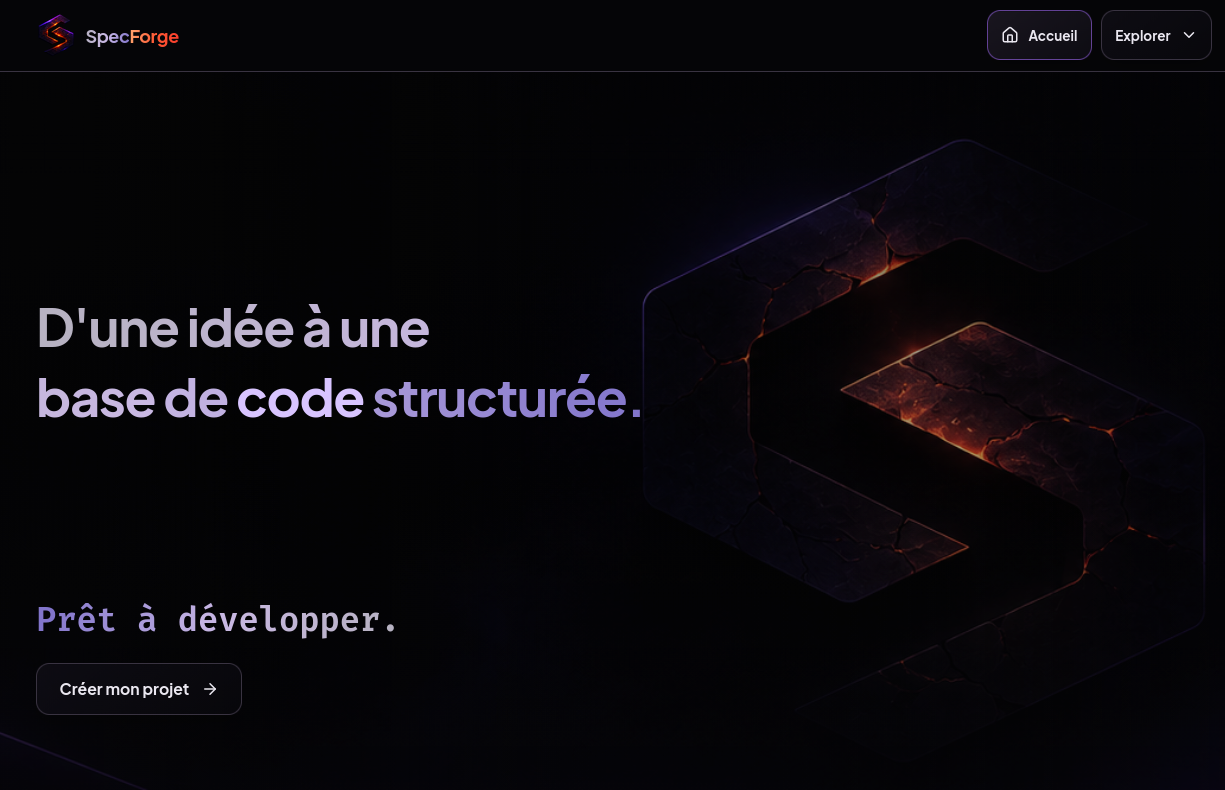
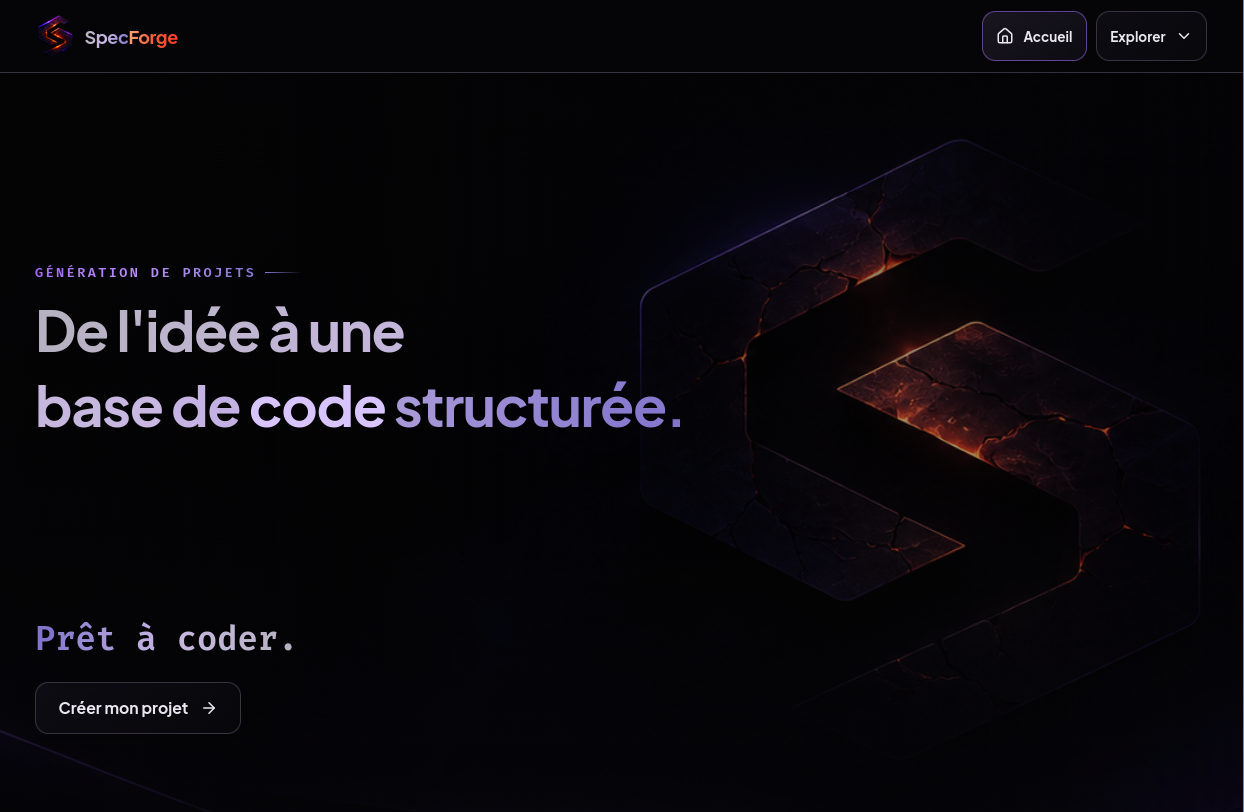
Ui/UX final

diff --git a/src/components/ProjectWizard.tsx b/src/components/ProjectWizard.tsx
@@ -145,14 +145,18 @@ export const ProjectWizard: React.FC<ProjectWizardProps> = ({
         className="relative isolate flex min-h-[calc(100svh-4rem)] overflow-hidden"
       >
         <div className="relative mx-auto flex w-full max-w-7xl flex-1 flex-col justify-center gap-20 px-shell py-12 sm:gap-24 sm:py-16 lg:gap-32">
-          <div className="max-w-xl">
+          <div className="max-w-2xl -translate-y-2">
+            <p className="mb-3 flex items-center gap-2 font-mono text-[10px] font-semibold uppercase tracking-[0.18em] sm:text-xs">
+              <span className="brand-eyebrow">GÉNÉRATION DE PROJETS</span>
+              <span className="brand-eyebrow-rule" aria-hidden="true" />
+            </p>
             <AnimatedHeading
               as="h1"
               id="home-title"
               tone="brand"
-              className="w-fit max-w-full text-[clamp(2.125rem,4.2vw,3.125rem)] font-bold leading-tight tracking-tight text-neutral-100"
+              className="w-fit max-w-full text-[clamp(2.375rem,4.5vw,3.5rem)] font-bold leading-tight tracking-tight text-neutral-100"
               lines={[
-                { text: "D'une idée à une" },
+                { text: "De l'idée à une" },
                 {
                   text: 'base de code structurée.',
                   className: 'mt-1',
@@ -169,7 +173,7 @@ export const ProjectWizard: React.FC<ProjectWizardProps> = ({
               reverseGradient
               lines={[
                 {
-                  text: 'Prêt à développer.',
+                  text: 'Prêt à coder.',
                   accent: true,
                 },
               ]}

diff --git a/src/components/PageHero.tsx b/src/components/PageHero.tsx
@@ -24,10 +24,10 @@ export const PageHero: React.FC<PageHeroProps> = ({
     <div className="flex flex-col justify-end gap-8 sm:gap-10 md:flex-row md:items-end md:justify-between">
       <div className="max-w-3xl">
         <div className="flex flex-wrap items-center gap-x-3 gap-y-2">
-          <span className="h-1 w-6 rounded-full bg-indigo-400" aria-hidden="true" />
-          <span className="font-mono text-[10px] font-semibold uppercase tracking-[0.18em] text-indigo-300 sm:text-xs">
-            {eyebrow}
-          </span>
+          <div className="flex items-center gap-2 font-mono text-[10px] font-semibold uppercase tracking-[0.18em] sm:text-xs">
+            <span className="brand-eyebrow">{eyebrow}</span>
+            <span className="brand-eyebrow-rule" aria-hidden="true" />
+          </div>
           {meta && <span className="text-xs text-neutral-400">{meta}</span>}
         </div>
 

diff --git a/src/index.css b/src/index.css
@@ -131,7 +131,8 @@
   background: var(--surface-translucent);
 }
 
-.brand-spec,
+.brand-cool-gradient,
+.brand-eyebrow,
 .brand-forge {
   color: transparent;
   background-clip: text;
@@ -139,8 +140,19 @@
   -webkit-text-fill-color: transparent;
 }
 
-.brand-spec {
+.brand-cool-gradient {
   background-image: linear-gradient(100deg, #b7b2c2 0%, #c9b8e4 50%, #8275cb 100%);
+}
+
+.brand-eyebrow {
+  background-image: linear-gradient(100deg, #a56bff 0%, #b990f0 48%, #8978d8 100%);
+}
+
+.brand-eyebrow-rule {
+  width: 2rem;
+  height: 1px;
+  flex: none;
+  background: linear-gradient(90deg, #8978d8, transparent);
 }
 
 .brand-forge {

diff --git a/src/components/Header.tsx b/src/components/Header.tsx
@@ -110,7 +110,7 @@ export const Header: React.FC<HeaderProps> = ({ currentTab, setCurrentTab, onOpe
             className="h-10 w-9 object-contain"
           />
           <span className="text-sm font-bold tracking-tight text-neutral-100 sm:text-base">
-            <span className="brand-spec">Spec</span>
+            <span className="brand-cool-gradient">Spec</span>
             <span className="brand-forge">Forge</span>
           </span>
         </button>
